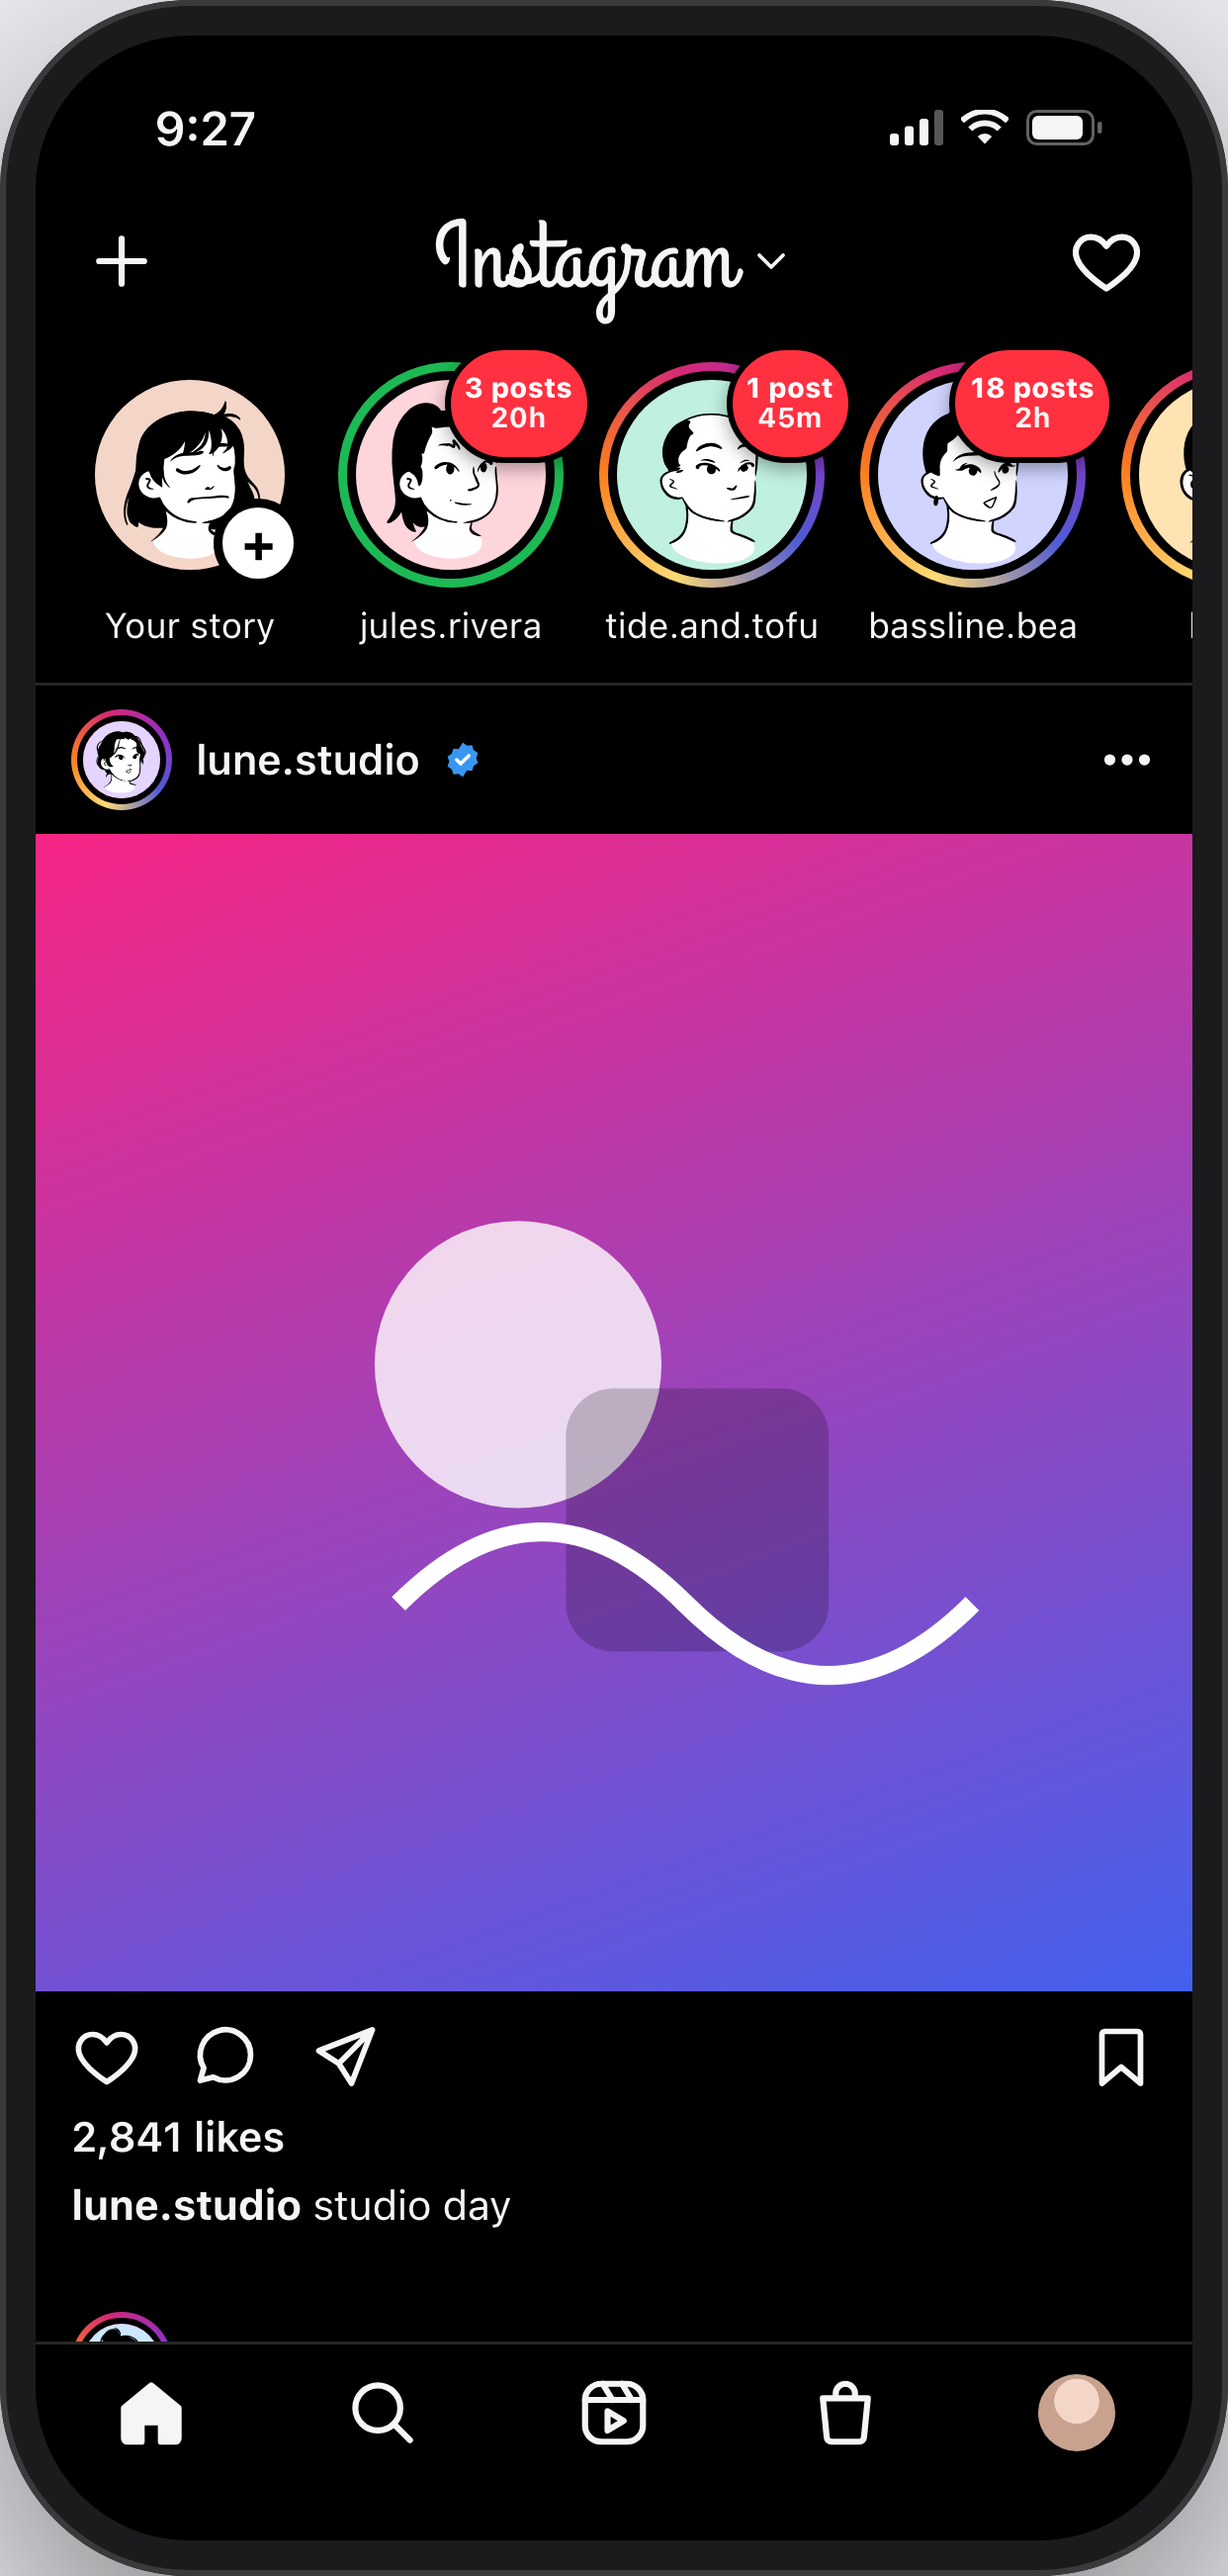
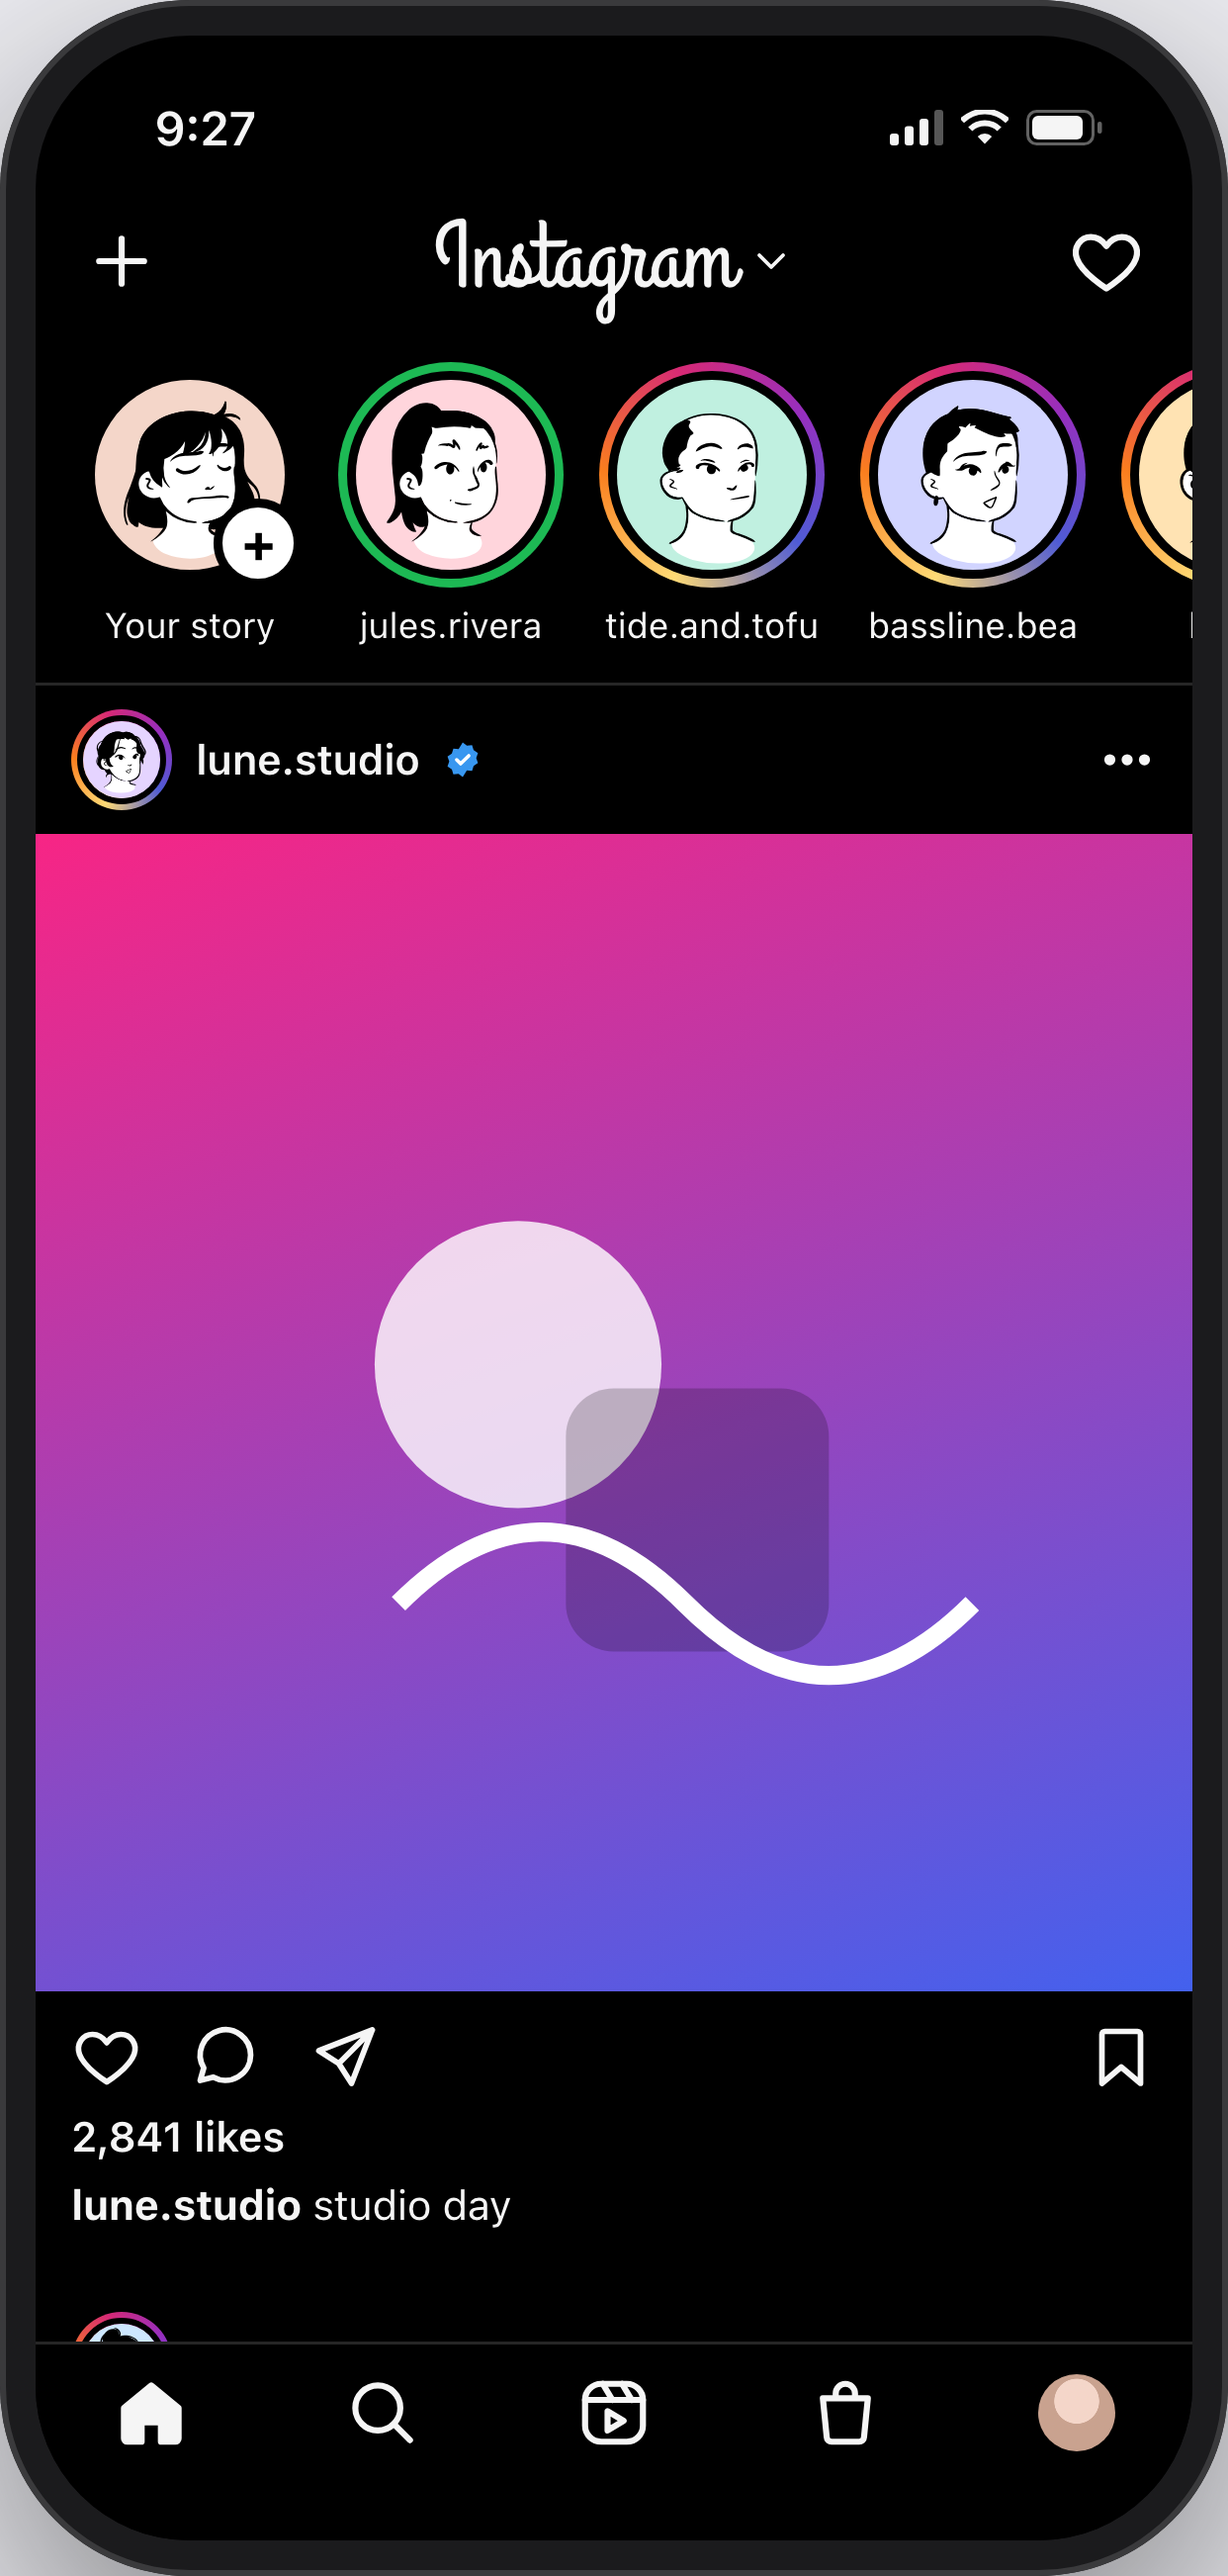
fix: simplify readme and code

Changed region(s): [[0.7649, 0.1244, 0.9179, 0.1866], [0.5813, 0.1244, 0.7037, 0.1866], [0.3671, 0.1244, 0.4895, 0.1866]]

diff --git a/src/lib/state.svelte.ts b/src/lib/state.svelte.ts
@@ -44,7 +44,6 @@ class AppState {
     return {
       sessions: done.length,
       accountsPerSession: mean(done.map((s) => s.accountsViewed.length)),
-      storiesPerSession: mean(done.map((s) => s.storiesViewed)),
     };
   });
 
@@ -70,7 +69,6 @@ class AppState {
         id: newSessionId(),
         variant: this.variant,
         accountsViewed: [],
-        storiesViewed: 0,
       };
       // Logged in both arms: in A it's the counterfactual exposure.
       this.log('story_progress_exposure', {
@@ -87,15 +85,12 @@ class AppState {
     this.viewer = { source, playlist, progress, session };
   }
 
-  /** A story was shown: mark it seen and count it toward the session's metrics. */
+  /** A story was shown: mark it seen and count its account toward the session's metric. */
   viewed(username: string, storyIndex: number): void {
     const account = this.accounts.find((a) => a.username === username);
     if (account && storyIndex + 1 > account.seenCount) account.seenCount = storyIndex + 1;
     const session = this.viewer?.session;
-    if (session) {
-      if (!session.accountsViewed.includes(username)) session.accountsViewed.push(username);
-      session.storiesViewed += 1;
-    }
+    if (session && !session.accountsViewed.includes(username)) session.accountsViewed.push(username);
   }
 
   close(): void {
@@ -106,14 +101,9 @@ class AppState {
         session_id: session.id,
         variant: session.variant,
         accounts_viewed: session.accountsViewed.length,
-        stories_viewed: session.storiesViewed,
       });
     }
     this.viewer = null;
-  }
-
-  logBadgeExposure(visibleAccounts: number): void {
-    this.log('story_badge_exposure', { variant: this.variant, visible_accounts: visibleAccounts });
   }
 
   /** Back to the demo's starting point (all stories unseen again, logs cleared). */

diff --git a/src/components/ExperimentConsole.svelte b/src/components/ExperimentConsole.svelte
@@ -28,34 +28,20 @@
   </div>
   <p class="hint">
     {#if app.variant === 'B'}
-      Tray badges show each account's story count and age. The viewer shows “4 of 11” tray progress.
+      The viewer shows “4 of 11” tray progress beside the username.
     {:else}
-      Current experience: no badges, no tray progress.
+      Current experience: no tray progress.
     {/if}
   </p>
 
   <h2>Primary metric</h2>
   <dl class="metrics">
     <div><dt>Accounts viewed / tray session</dt><dd data-testid="metric-accounts">{fmt(app.metrics.accountsPerSession)}</dd></div>
-    <div><dt>Stories viewed / session (guardrail)</dt><dd>{fmt(app.metrics.storiesPerSession)}</dd></div>
     <div><dt>Tray sessions ({app.variant})</dt><dd>{app.metrics.sessions}</dd></div>
     {#if live}
-      <div class="live"><dt>Current session</dt><dd>{live.accountsViewed.length} accounts · {live.storiesViewed} stories</dd></div>
+      <div class="live"><dt>Current session</dt><dd>{live.accountsViewed.length} accounts</dd></div>
     {/if}
   </dl>
-
-  <h2>Event log</h2>
-  <ol class="log" data-testid="event-log">
-    {#each app.events as event (event.id)}
-      <li>
-        <span class="time">{event.at}</span>
-        <code class="name">{event.name}</code>
-        <code class="payload">{JSON.stringify(event.payload)}</code>
-      </li>
-    {:else}
-      <li class="empty">Open a story from the tray to start a session.</li>
-    {/each}
-  </ol>
 
   <div class="footer">
     <button type="button" onclick={() => app.reset()}>Reset demo</button>

diff --git a/e2e/prototype.spec.ts b/e2e/prototype.spec.ts
@@ -2,24 +2,14 @@ import { expect, test, type Page } from '@playwright/test';
 
 const log = (page: Page) => page.getByTestId('event-log');
 
-test('A (control): no badges and no tray progress', async ({ page }) => {
+test('A (control): no tray progress', async ({ page }) => {
   await page.goto('/?variant=A&paused=1');
   await expect(page.getByTestId('tray-jules.rivera')).toBeVisible();
-  await expect(page.getByTestId('tray-badge')).toHaveCount(0);
   await page.getByTestId('tray-kofi.k').click();
   await expect(page.getByTestId('viewer-username')).toHaveText('kofi.k');
   await expect(page.getByTestId('tray-progress')).toHaveCount(0);
   // Exposure is still logged in control (counterfactual).
   await expect(log(page)).toContainText('"variant":"A","session_id":"sess_001","unseen_accounts_at_open":11');
-});
-
-test('B: badges show story count and age on every account circle', async ({ page }) => {
-  await page.goto('/?variant=B&paused=1');
-  const badge = (u: string) => page.getByTestId(`tray-${u}`).getByTestId('tray-badge');
-  await expect(badge('jules.rivera')).toHaveText(/3 posts\s*20h/);
-  await expect(badge('tide.and.tofu')).toHaveText(/1 post\s*45m/);
-  await expect(badge('bassline.bea')).toHaveText(/18 posts\s*2h/);
-  await expect(page.getByTestId('tray-self').getByTestId('tray-badge')).toHaveCount(0);
 });
 
 test('B: "N of 11" follows the account on screen; ads and skips follow the plan rules', async ({ page }) => {

diff --git a/src/components/StoryTray.svelte b/src/components/StoryTray.svelte
@@ -1,25 +1,14 @@
 <script lang="ts">
-  import { untrack } from 'svelte';
   import { SELF } from '../data/mock';
   import { app } from '../lib/state.svelte';
   import StoryAvatar from './StoryAvatar.svelte';
-
-  const showBadges = $derived(app.variant === 'B');
-
-  // Exposure for the badge treatment: logged whenever the Home tray comes into view (on load, after
-  // closing the viewer, or when the variant changes), in both arms.
-  $effect(() => {
-    void app.variant;
-    if (app.viewer !== null) return;
-    untrack(() => app.logBadgeExposure(app.tray.length));
-  });
 </script>
 
 <div class="tray" data-testid="story-tray" role="list" aria-label="Stories">
-  <div role="listitem"><StoryAvatar account={SELF} isSelf showBadge={false} /></div>
+  <div role="listitem"><StoryAvatar account={SELF} isSelf /></div>
   {#each app.tray as account (account.username)}
     <div role="listitem">
-      <StoryAvatar {account} showBadge={showBadges} onopen={() => app.open(account, 'tray')} />
+      <StoryAvatar {account} onopen={() => app.open(account, 'tray')} />
     </div>
   {/each}
 </div>
@@ -28,7 +17,6 @@
   .tray {
     display: flex;
     gap: 4px;
-    /* Room above for badges, which overlap the avatar's top edge. */
     padding: 10px 10px 12px;
     overflow-x: auto;
     scrollbar-width: none;

diff --git a/src/lib/tray.ts b/src/lib/tray.ts
@@ -4,24 +4,12 @@ export function hasUnseen(account: Account): boolean {
   return account.seenCount < account.stories.length;
 }
 
-export function newestStoryAt(account: Account): number | null {
-  return account.stories.at(-1)?.postedAt ?? null;
-}
-
 /** "45m", "20h", "2d" (Instagram-style relative age). */
 export function ageLabel(postedAt: number, now: number): string {
   const minutes = Math.max(1, Math.floor((now - postedAt) / 60_000));
   if (minutes < 60) return `${minutes}m`;
   const hours = Math.floor(minutes / 60);
   return hours < 24 ? `${hours}h` : `${Math.floor(hours / 24)}d`;
-}
-
-/** Badge text for B: ["3 posts", "20h"]. Null for accounts without stories. */
-export function badgeLines(account: Account, now: number): [string, string] | null {
-  const newest = newestStoryAt(account);
-  if (newest === null) return null;
-  const n = account.stories.length;
-  return [`${n} ${n === 1 ? 'post' : 'posts'}`, ageLabel(newest, now)];
 }
 
 /** Tray order: accounts with unseen stories first (in ranking order), then fully seen ones. */

diff --git a/src/components/StoryAvatar.svelte b/src/components/StoryAvatar.svelte
@@ -1,19 +1,15 @@
 <script lang="ts">
-  import { DEMO_NOW } from '../data/mock';
   import type { Account } from '../data/types';
   import { avatarUri } from '../lib/avatar';
-  import { badgeLines, hasUnseen } from '../lib/tray';
-  import TrayBadge from './TrayBadge.svelte';
+  import { hasUnseen } from '../lib/tray';
 
   let {
     account,
     isSelf = false,
-    showBadge,
     onopen,
-  }: { account: Account; isSelf?: boolean; showBadge: boolean; onopen?: () => void } = $props();
+  }: { account: Account; isSelf?: boolean; onopen?: () => void } = $props();
 
   const unseen = $derived(hasUnseen(account));
-  const lines = $derived(badgeLines(account, DEMO_NOW));
 </script>
 
 <button
@@ -32,8 +28,6 @@
     <img src={avatarUri(account.avatarSeed, account.avatarBg)} alt="" draggable="false" />
     {#if isSelf}
       <span class="add" aria-hidden="true">+</span>
-    {:else if showBadge && lines}
-      <TrayBadge {lines} />
     {/if}
   </span>
   <span class="name">{isSelf ? 'Your story' : account.username}</span>

diff --git a/tests/tray.test.ts b/tests/tray.test.ts
@@ -1,7 +1,7 @@
 import { describe, expect, it } from 'vitest';
 import { ACCOUNTS, ADS, DEMO_NOW } from '../src/data/mock';
 import { buildPlaylist } from '../src/lib/playlist';
-import { ageLabel, badgeLines, hasUnseen, trayOrder } from '../src/lib/tray';
+import { ageLabel, hasUnseen, trayOrder } from '../src/lib/tray';
 
 const byName = (u: string) => ACCOUNTS.find((a) => a.username === u)!;
 
@@ -14,14 +14,6 @@ describe('ageLabel', () => {
     [0, '1m'],
   ])('%d ms ago → %s', (ago, label) => {
     expect(ageLabel(DEMO_NOW - ago, DEMO_NOW)).toBe(label);
-  });
-});
-
-describe('badgeLines (B)', () => {
-  it('matches the report mock: count over age', () => {
-    expect(badgeLines(byName('jules.rivera'), DEMO_NOW)).toEqual(['3 posts', '20h']);
-    expect(badgeLines(byName('tide.and.tofu'), DEMO_NOW)).toEqual(['1 post', '45m']);
-    expect(badgeLines(byName('bassline.bea'), DEMO_NOW)).toEqual(['18 posts', '2h']);
   });
 });
 

diff --git a/src/lib/experiment.ts b/src/lib/experiment.ts
@@ -37,7 +37,7 @@ export function flag(name: string, search: string = location.search): boolean {
 
 export interface ExperimentEvent {
   id: number;
-  name: 'story_progress_exposure' | 'story_badge_exposure' | 'tray_session_end';
+  name: 'story_progress_exposure' | 'tray_session_end';
   at: string;
   payload: Record<string, string | number | boolean>;
 }
@@ -47,7 +47,6 @@ export interface TraySession {
   variant: Variant;
   /** Unique usernames viewed (an array so Svelte state tracks it). */
   accountsViewed: string[];
-  storiesViewed: number;
 }
 
 let sessionCounter = 0;

diff --git a/scripts/mocks.ts b/scripts/mocks.ts
@@ -21,7 +21,7 @@ try {
     // paused=1: no auto-advance, so the viewer frame is stable.
     await page.goto(`http://localhost:${PORT}/?variant=${variant}&clean=1&paused=1`);
     await page.evaluate(() => document.fonts.ready);
-    await page.waitForTimeout(400); // let badge pop-in finish
+    await page.waitForTimeout(400); // let avatars and fonts settle
     await phone.screenshot({ path: `${OUT}/${variant}-home.png` });
 
     // The 4th account with unseen stories, so B reads "4 of 11" (the plan's example).

diff --git a/README.md b/README.md
@@ -6,9 +6,8 @@ fictional.
 
 | | A (control) | B (treatment) |
 | --- | --- | --- |
-| Story tray (Home) | Unchanged | Red badge on each circle with the account's **story count and age** (e.g. "3 posts / 20h") |
 | Stories viewer | Per-account segment bars only | Adds **tray progress**, e.g. "4 of 11", beside the username |
-| Tray order, ads, gestures | Unchanged | Unchanged |
+| Home tray, tray order, ads, gestures | Unchanged | Unchanged |
 
 Progress label rules (from the experiment plan):
 - The total is fixed when the viewer opens.
@@ -17,7 +16,7 @@ Progress label rules (from the experiment plan):
 - It uses the same white as the segment bars.
 - It's hidden when the viewer wasn't opened from the Home tray, or with fewer than 2 unseen accounts.
 
-![B home](mocks/B-home.png)
+![B viewer](mocks/B-viewer.png)
 
 ## Run it
 
@@ -43,30 +42,11 @@ Controls in the viewer:
 - **Swipe down:** close.
 - **Keys:** `←` `→` move between stories, `Shift+←` `Shift+→` between accounts, `Space` pauses, `Esc` closes.
 
-## Report deliverables
-
-- **Hi-fi mocks of A and B:** run `pnpm mocks`. It writes `mocks/A-home.png`, `mocks/B-home.png`, `mocks/A-viewer.png`, `mocks/B-viewer.png` and `mocks/B-with-console.png`, at 3x iPhone resolution.
-- **Screen recording:** open `/?variant=B&clean=1` and record the phone with any screen recorder, e.g. macOS Cmd+Shift+5, "Record Selected Portion". Suggested script:
-  1. Show the tray badges, including "18 posts" on bassline.bea.
-  2. Open **kofi.k**, which shows "4 of 11".
-  3. Tap through, swipe to the next accounts, and pass the story ad: the count holds.
-  4. Close.
-  5. Switch to `?variant=A` to show the control.
-
-**How the prototype maps to the report:**
-
-| Report section | Where it shows |
-| --- | --- |
-| 2. Proposed change | The B variant |
-| 3. Metric | Console, "Accounts viewed / tray session" (primary) and stories per session (guardrail) |
-| 4. Randomization | The A/B switch stands in for user-level assignment: one variant per user, kept across sessions |
-| 6. Triggering | Console event log. `story_progress_exposure {user_id, variant, session_id, unseen_accounts_at_open}` fires when the viewer opens from the tray, in both arms (a counterfactual log in A). It doesn't fire for viewers opened from a feed post's avatar, or with fewer than 2 unseen accounts. `story_badge_exposure` fires when the Home tray is shown. |
-
 ## Tests
 
 ```sh
 pnpm check   # svelte-check (types)
-pnpm test    # unit: badge text, tray order, playlist, progress rules
+pnpm test    # unit: tray order, playlist, progress rules
 pnpm e2e     # Playwright: A vs B, "N of 11" through skips and ads, exposure rules, auto-advance
 ```
 
